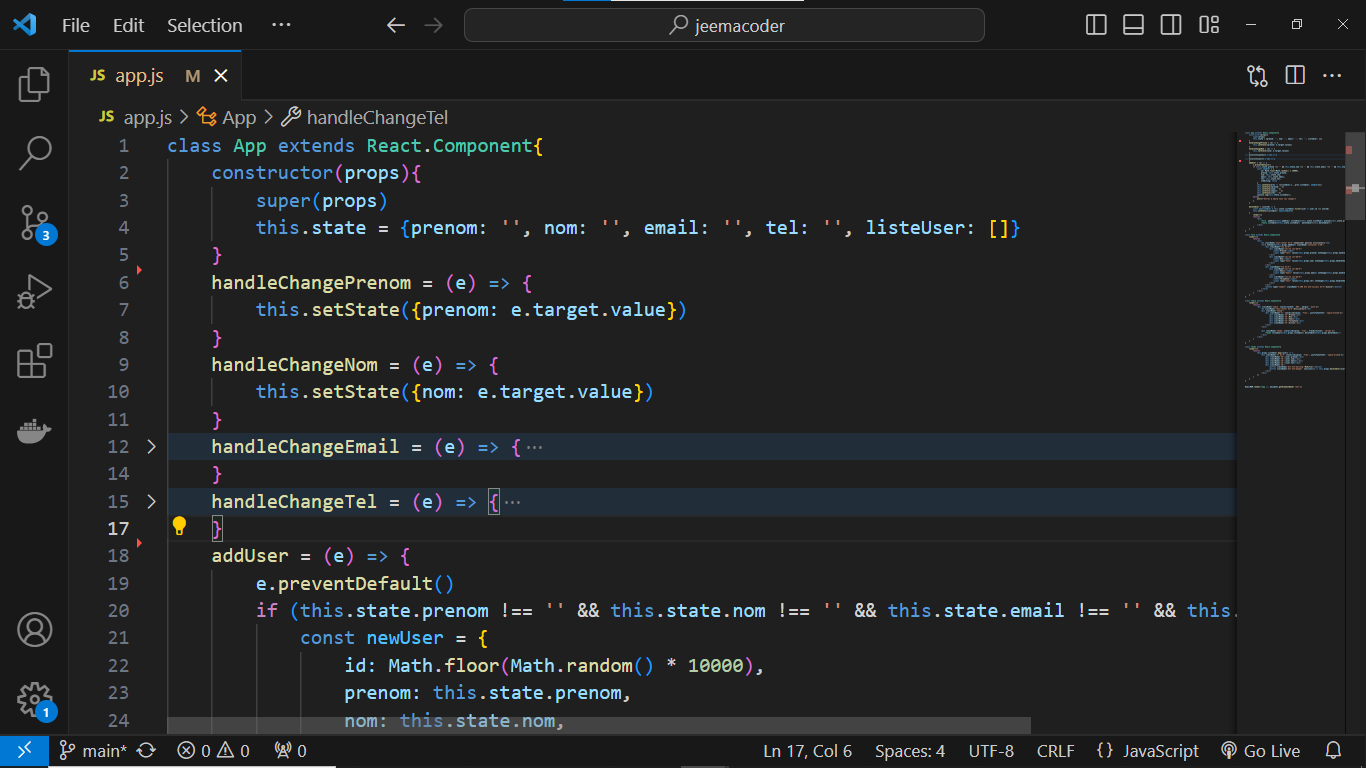
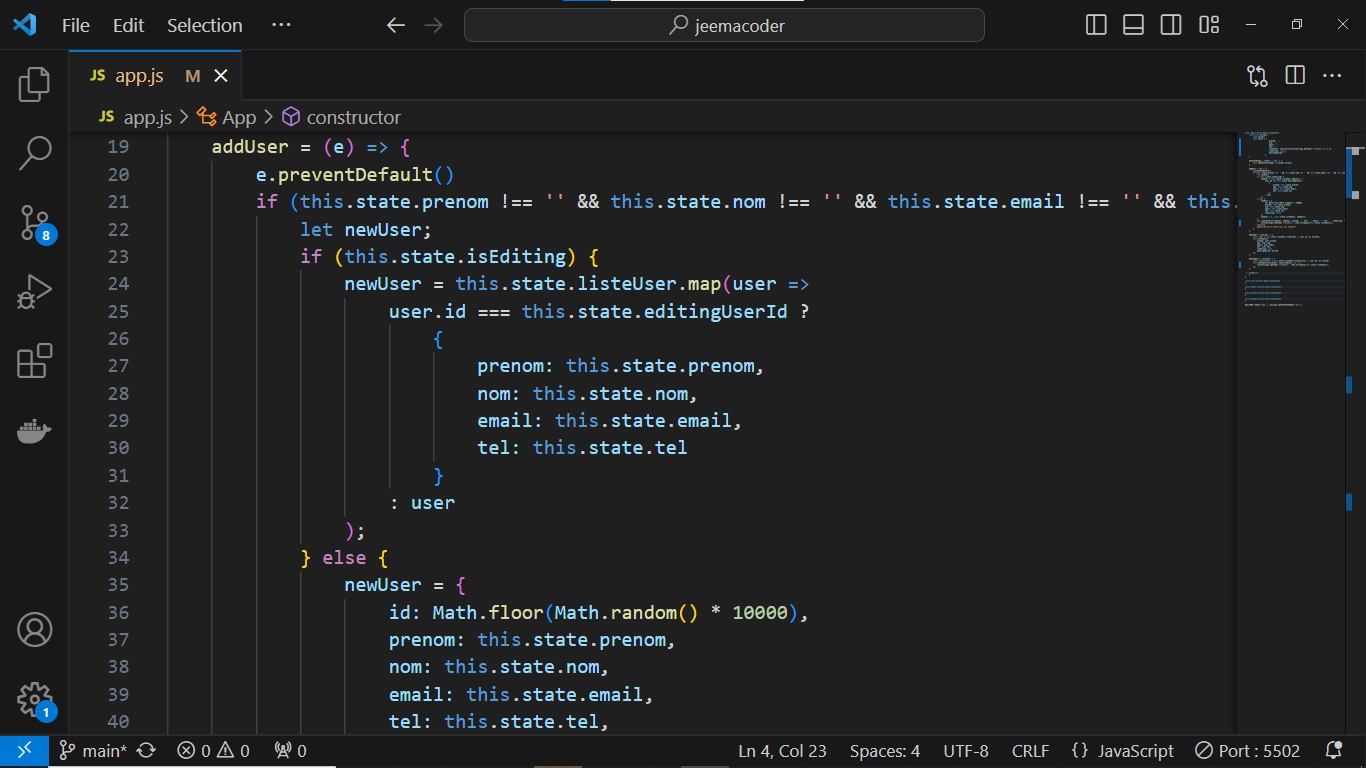
jeemacoder LOC

diff --git a/app.js b/app.js
@@ -1,7 +1,15 @@
 class App extends React.Component{
     constructor(props){
         super(props) 
-        this.state = {prenom: '', prenom: '', nom: '', email: '', tel: '', listeUser: [], isEditing: false, editingUserId: ''}
+        this.state = {
+                        prenom: '', 
+                        nom: '', 
+                        email: '', 
+                        tel: '',
+                        listeUser: JSON.parse(localStorage.getItem('listeUser')) || [], 
+                        isEditing: false, 
+                        editingUserId: ''
+                    }
     }
 
     handleChange = (name) => (e) => {
@@ -34,8 +42,9 @@ class App extends React.Component{
                 };
                 newUser = [...this.state.listeUser, newUser];
             }
-            this.setState({listeUser: newUser, prenom: '', nom: '', email: '', tel: '', isEditing: false});
-        }else{
+            this.setState({listeUser: newUser, prenom: '', nom: '', email: '', tel: '', isEditing: false}, () => {
+                localStorage.setItem('listeUser', JSON.stringify(this.state.listeUser));
+            })}else{
             alert("Entrez d'abord tous les champs")
         }
     }
@@ -54,13 +63,16 @@ class App extends React.Component{
 
     deleteUser = (userId) => {
         const newListeUser = this.state.listeUser.filter(user => user.id !== userId)
-        this.setState({listeUser: newListeUser})
+        this.setState({listeUser: newListeUser}, () => {
+            localStorage.setItem('listeUser', JSON.stringify(this.state.listeUser));
+        });
     }
 
     render(){
         return(
             <div>
                 <Form  addUser={this.addUser} listeUser={this.state.listeUser} prenom={this.state.prenom} nom={this.state.nom} email={this.state.email} tel={this.state.tel} isEditing={this.state.isEditing} handleChange={this.handleChange} />
+
                 <Table listeUser={this.state.listeUser}  editUser={this.editUser}  deleteUser={this.deleteUser}/>
             </div>
         )
@@ -99,7 +111,6 @@ class Input extends React.Component {
       )
     }
 }
-
 class Table extends React.Component{
     render(){
         return(
@@ -123,7 +134,6 @@ class Table extends React.Component{
         )
     }
 }
-
 class Tbody extends React.Component{
     render(){
         return(
